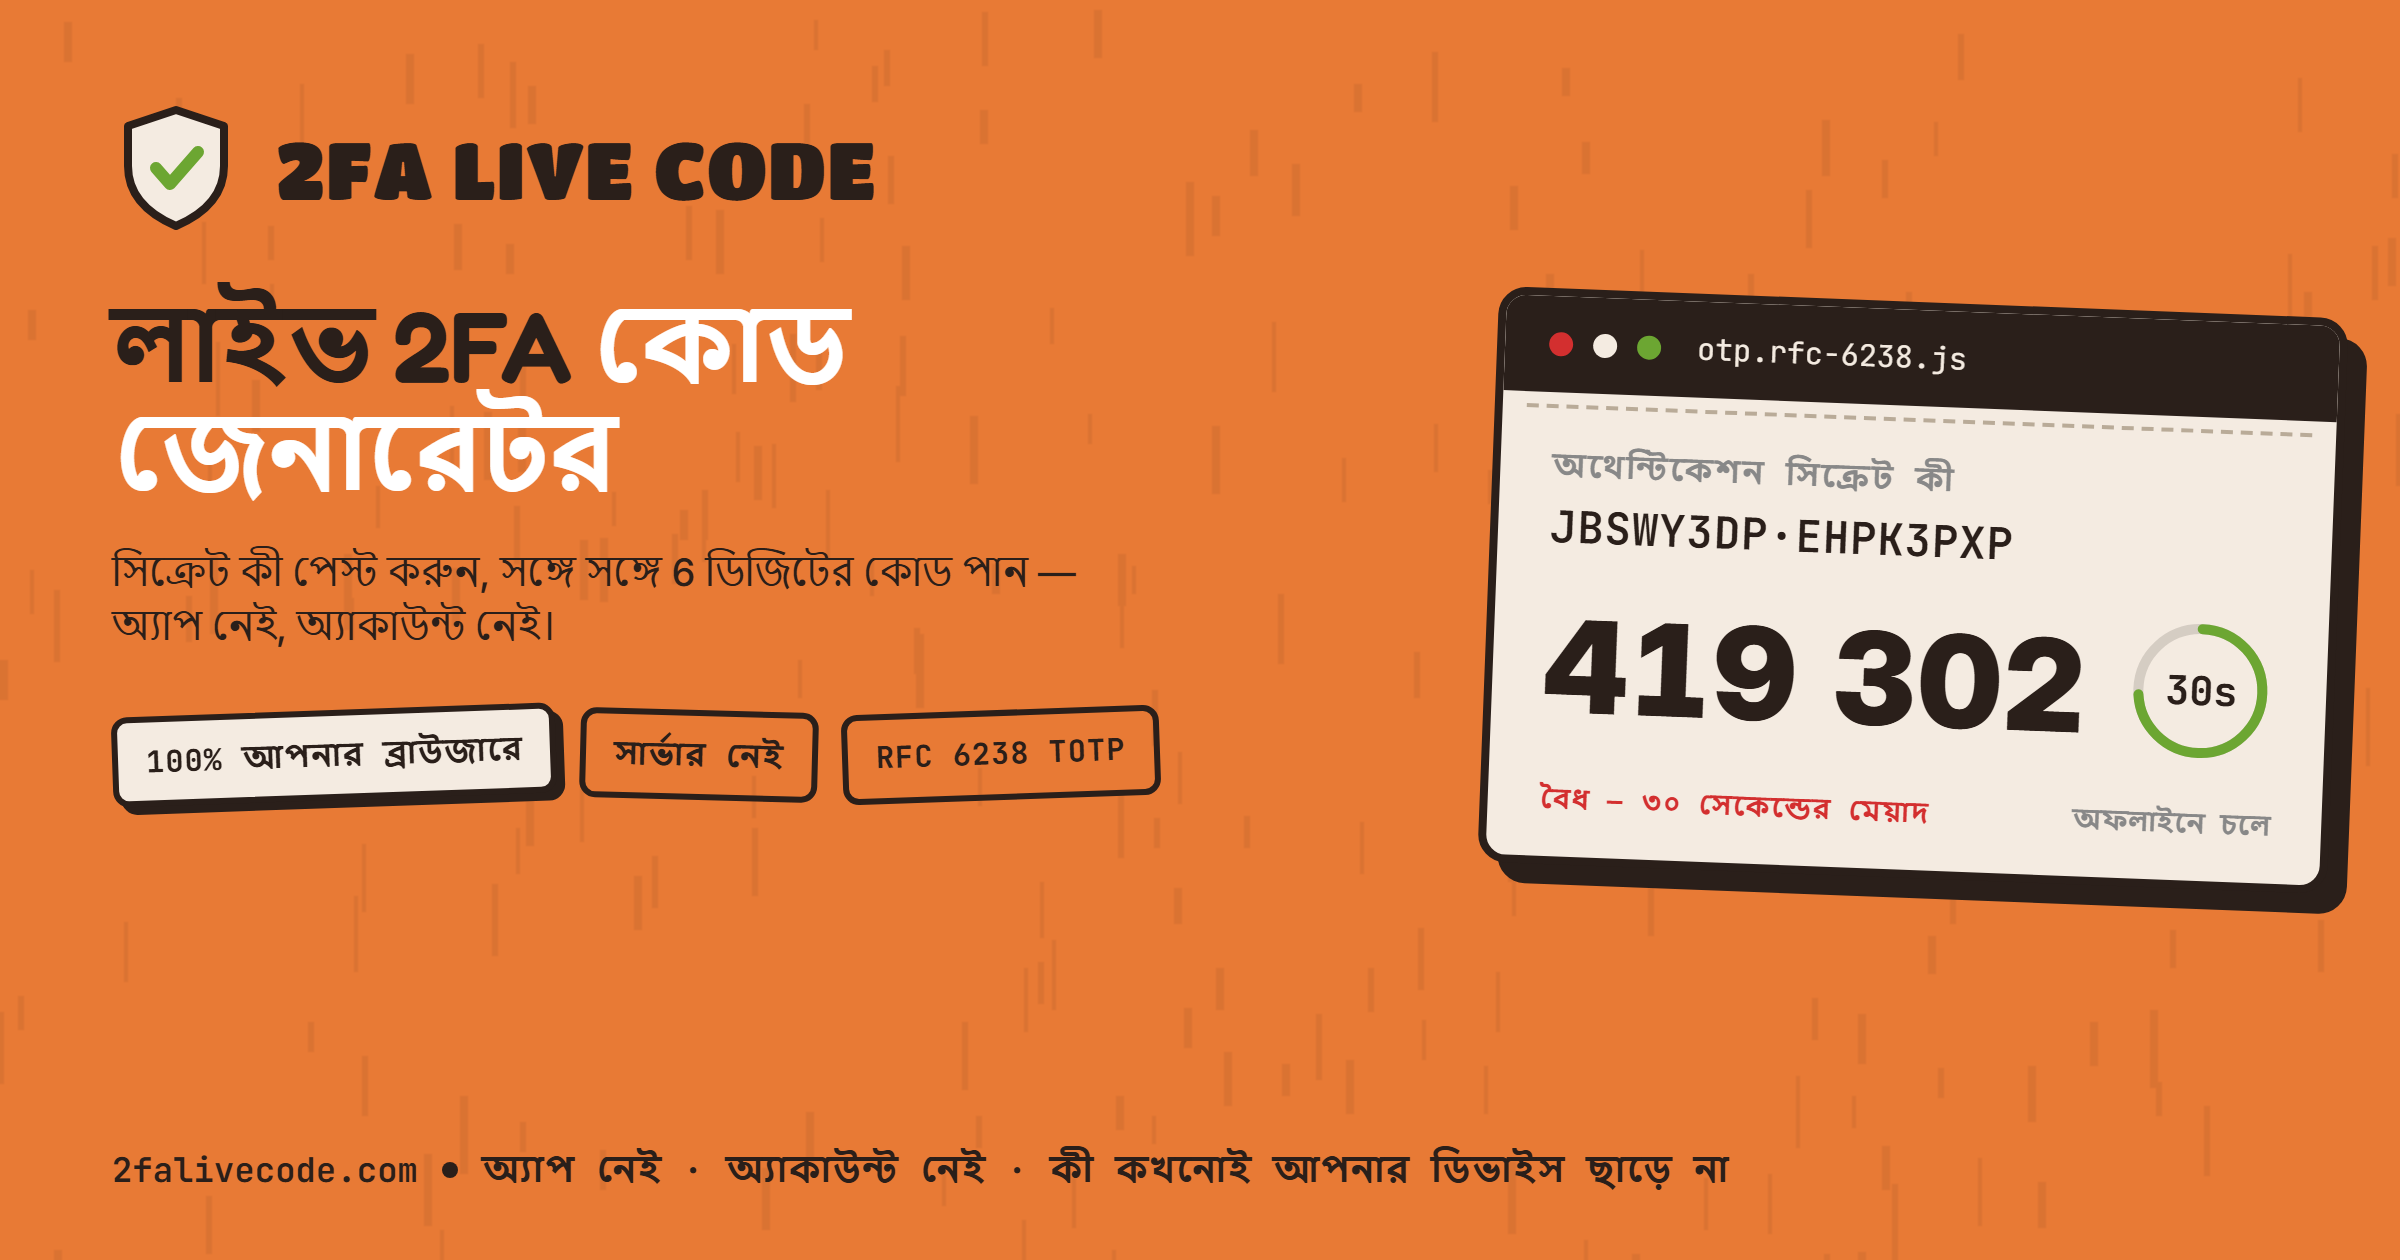
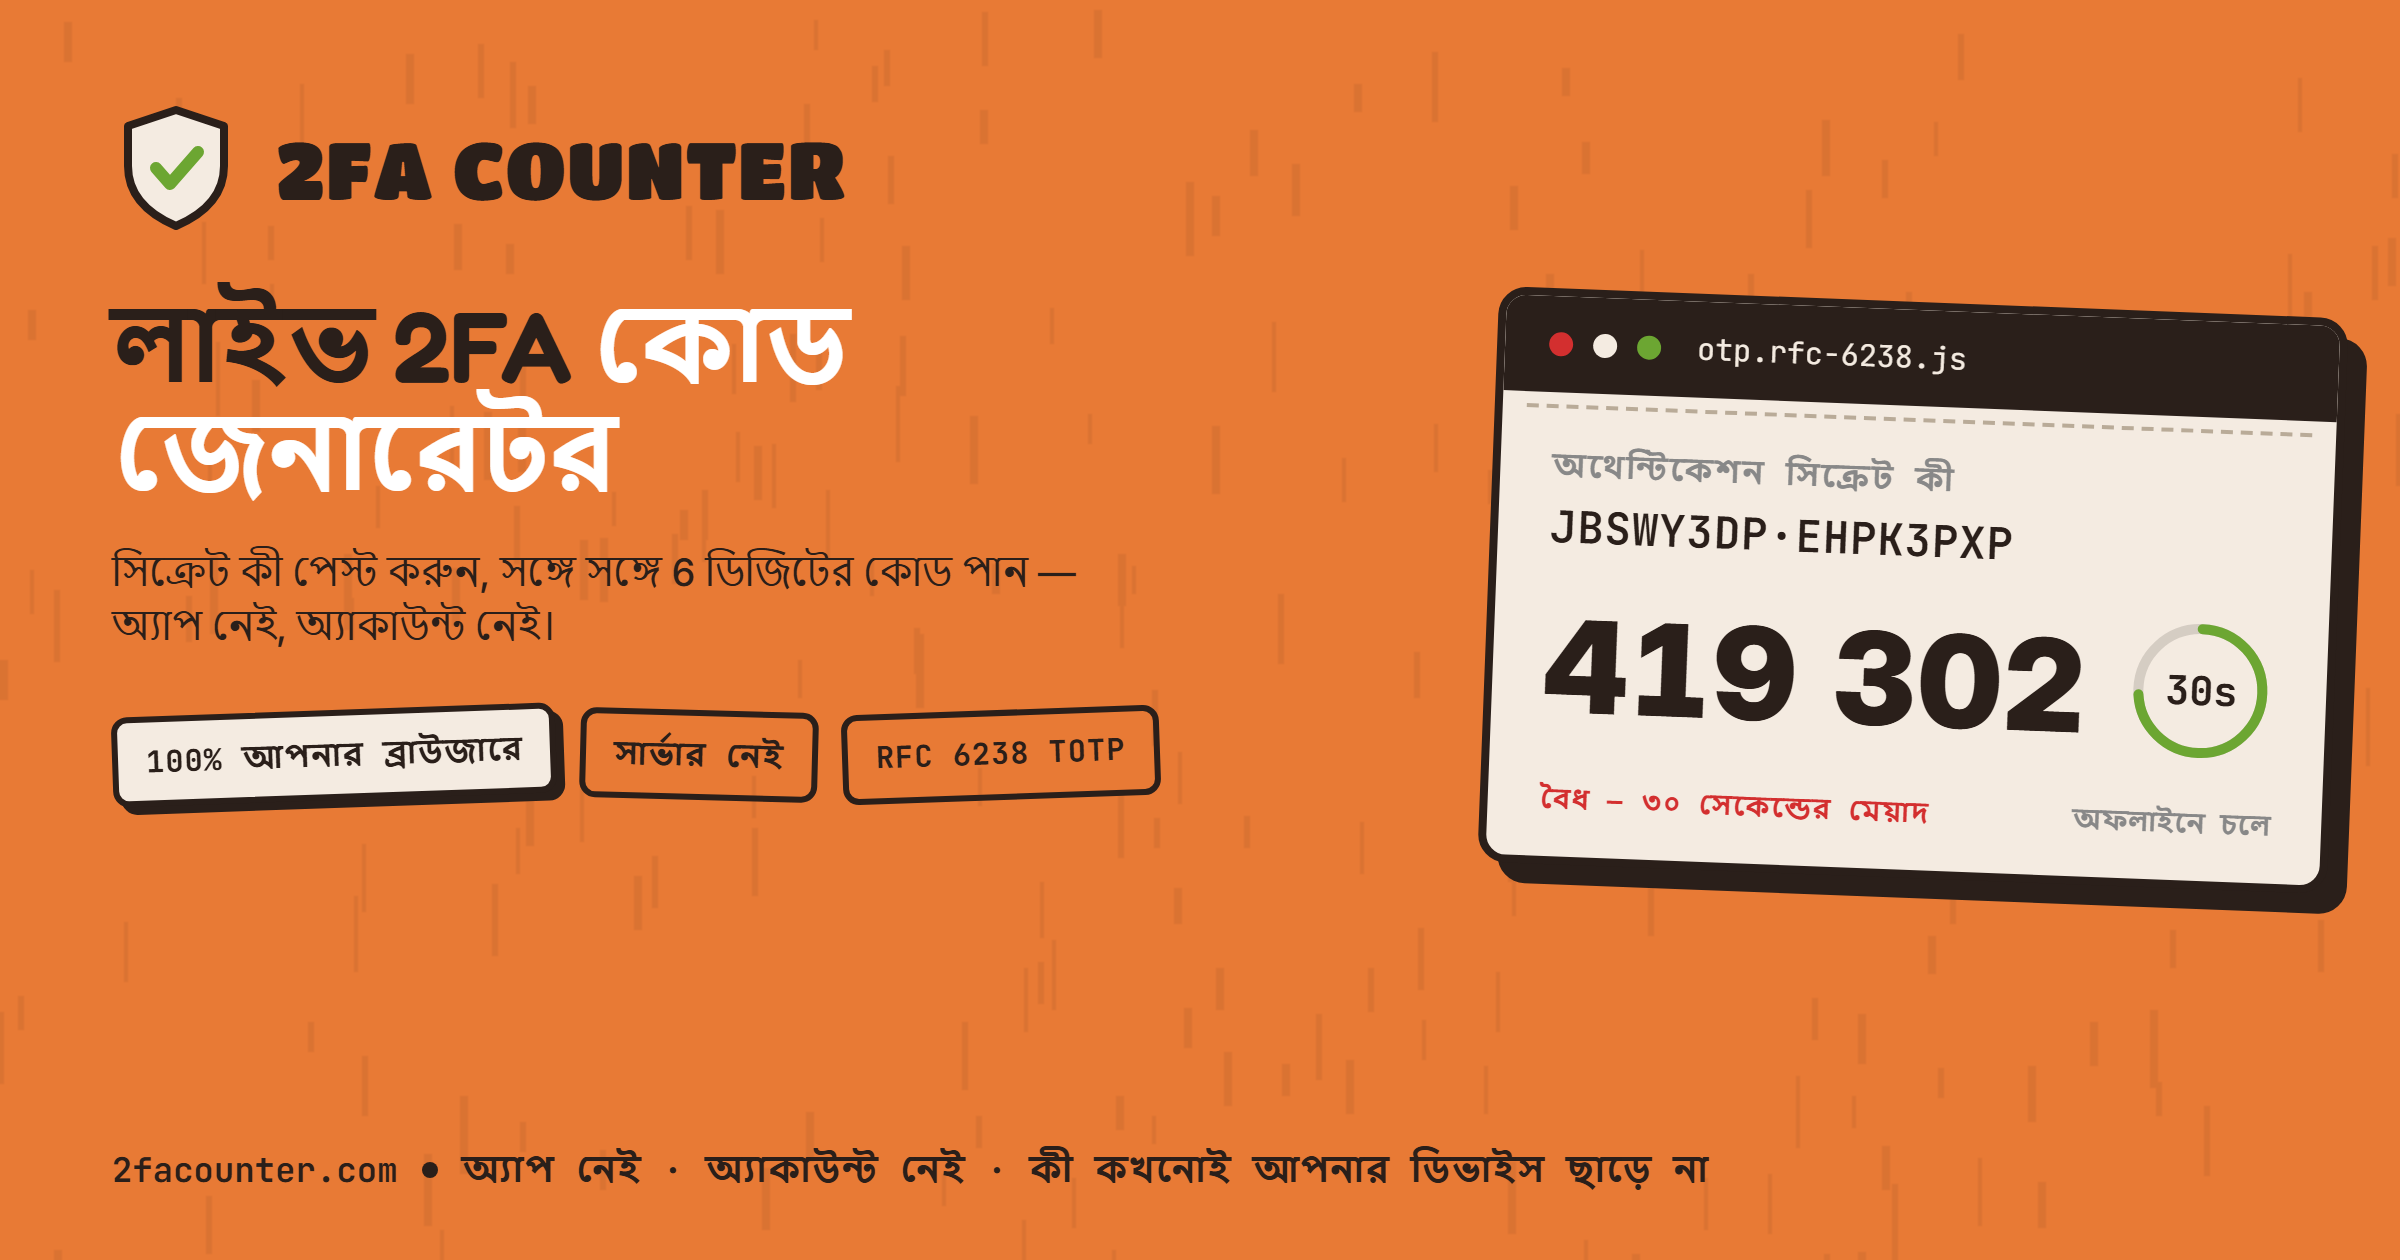
Rebrand leftovers: re-render all 15 OG cards (public PNGs still showed old 2FA LIVE CODE brand + 2falivecode.com domain), bump sw.js cache version name 2fal-v1 to 2fac-v1

Changed region(s): [[0.0625, 0.8976, 0.7188, 0.9595], [0.1875, 0.0929, 0.375, 0.1857]]

diff --git a/public/sw.js b/public/sw.js
@@ -7,7 +7,7 @@
    cached page keeps generating codes with zero connectivity.
    ──────────────────────────────────────────────────────────── */
 
-const VERSION = '2fal-v1';
+const VERSION = '2fac-v1';
 const PAGE_CACHE = `${VERSION}-pages`;
 const ASSET_CACHE = `${VERSION}-assets`;
 
